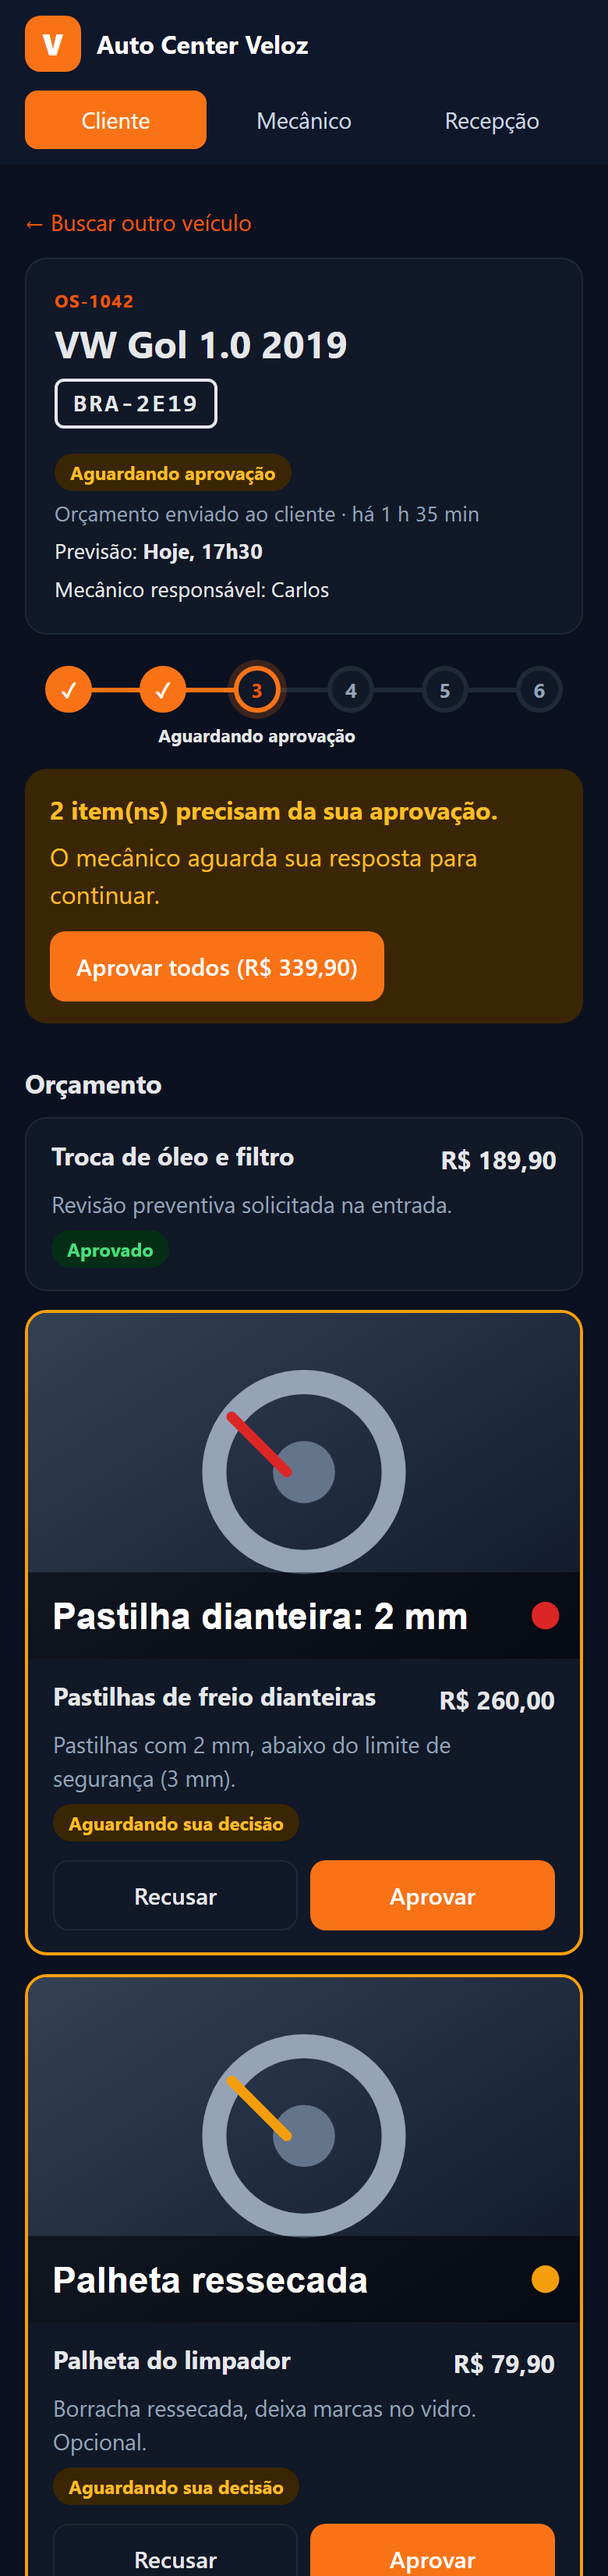
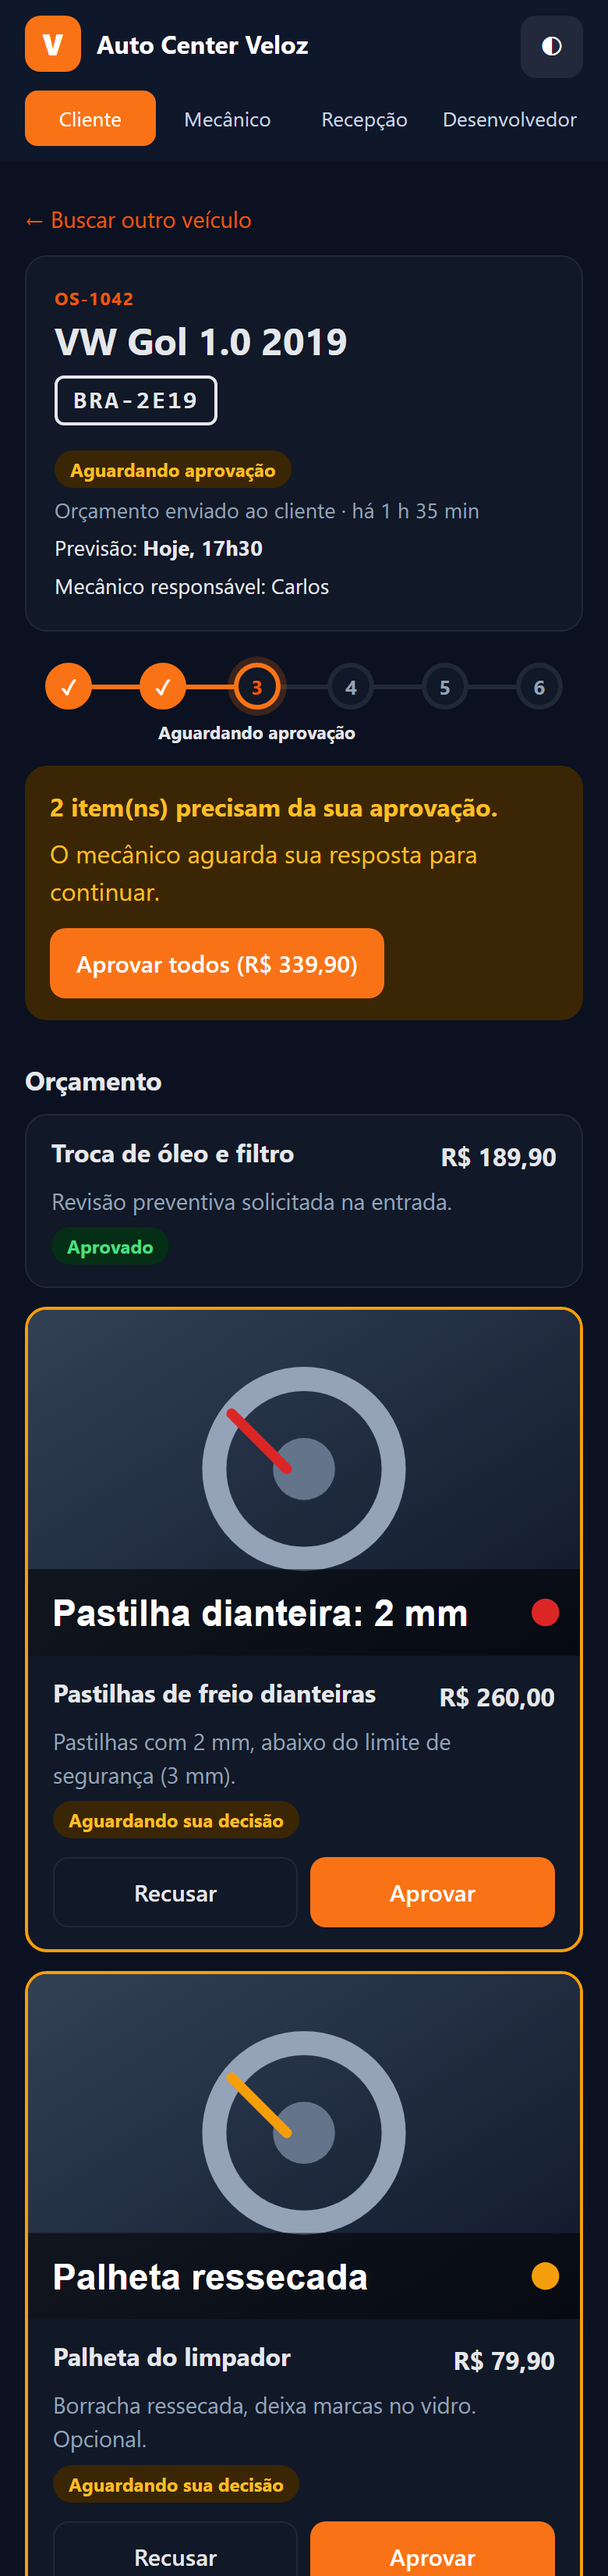
docs: README e capturas com as novas funcionalidades

diff --git a/README.md b/README.md
@@ -52,6 +52,7 @@ Avaliei as três opções da atividade:
 | Cliente precisa instalar algo? | Sim, e ninguém instala app de oficina para usar 2 vezes por ano | Não | **Não: abre por um link no WhatsApp** |
 | Resolve status e aprovação? | Sim | Não, só apresenta a empresa | **Sim** |
 | Mecânico usa no celular, com câmera? | Sim | Não | **Sim (`<input capture>`)** |
+| Fica na tela inicial do celular? | Sim | Não | **Sim (PWA instalável e offline)** |
 | Recepção tem painel de gestão? | Exigiria outro sistema | Não | **Sim, no mesmo produto** |
 | Custo e prazo para a oficina | Alto (lojas, duas plataformas) | Baixo | **Baixo (hospedagem estática)** |
 
@@ -71,22 +72,36 @@ Avaliei as três opções da atividade:
 O **Veloz Acompanha** tem três perfis, todos no mesmo web app:
 
 ### Cliente
-- Encontra o carro pela **placa ou nº da OS**, ou abre direto pelo **link recebido no WhatsApp**.
+- Encontra o carro pela **placa ou nº da OS**, pelo **QR code do comprovante** ou pelo **link recebido no WhatsApp**.
 - Vê a **etapa atual**, a previsão de entrega e o mecânico responsável.
-- Vê a **foto e a explicação** de cada peça com defeito e **aprova ou recusa item a item**.
+- Vê a **foto e a explicação** de cada peça com defeito e **aprova ou recusa item a item** (ou "Aprovar todos").
 - Quando responde todos os itens, o serviço é **liberado automaticamente** para o mecânico, sem passar pela recepção.
+- Pode ativar **notificações do navegador** para ser avisado a cada mudança de etapa.
+- Tem um **relatório digital** da OS, com itens, evidências fotográficas e histórico, que pode **salvar em PDF**. É o mesmo diferencial das concessionárias, sem o preço delas.
+- Na entrega, **avalia o atendimento** com estrelas. Nota 4 ou 5 vira convite para avaliar no Google; nota baixa avisa o gerente para resolver antes de virar avaliação negativa pública.
+- Botão **"Falar com a oficina"** abre o WhatsApp com a OS já identificada.
 
 ### Mecânico
 - Vê só as **suas OS**, com o elevador de cada uma.
 - **Avança a etapa** com um toque, e o cliente é atualizado na hora.
 - Em "Encontrei um problema", **fotografa a peça pelo celular**, informa valor e explicação, e envia para aprovação.
 - O botão de avançar fica travado enquanto há itens aguardando o cliente, o que evita trabalho não autorizado.
+- Recebe aviso quando o cliente responde, sem a recepção precisar interromper.
 
 ### Recepção e gestão (Eduardo e Henrique)
-- **Indicadores:** carros na oficina, aguardando aprovação, tempo médio de espera e prontos para retirada.
+- **Indicadores:** carros na oficina, aguardando aprovação, tempo médio de espera, prontos para retirada e **nota média dos clientes**.
 - **Mapa dos 5 elevadores:** livre ou ocupado, com alerta quando o carro está parado.
-- **Lista de OS** ordenada por urgência, com **copiar link** e **enviar pelo WhatsApp** (mensagem pronta).
-- **Nova OS:** cadastro na entrada do veículo, que já gera o link do cliente.
+- **Lista de OS** ordenada por urgência, com **busca** (placa, cliente, OS ou mecânico) e **filtro por etapa**.
+- Por OS: **comprovante com QR code**, **copiar link** e **enviar pelo WhatsApp** (mensagem pronta).
+- **Nova OS:** cadastro na entrada do veículo, que já abre o comprovante com QR, substituindo o orçamento em papel.
+- **Últimas avaliações** dos clientes.
+
+### Desenvolvedor
+- Aba **Desenvolvedor**, com o criador do app: foto, bio, links (GitHub, LinkedIn e Instagram) e repositórios, carregados **ao vivo da API pública do GitHub** (com dados de reserva se a API estiver fora).
+
+### App instalável (PWA)
+- Pode ser **instalado na tela inicial** do celular ou do computador, com ícone próprio, e **abre offline** (service worker).
+- **Tema claro e escuro**: segue o sistema e pode ser alternado no botão ◐.
 
 ### Fluxo principal
 
@@ -108,19 +123,27 @@ sequenceDiagram
 
 O protótipo é **navegável e funcional**: acesse a [demo online](https://mmarcatoricardo.github.io/autocenter-veloz/).
 
-> Dica: abra a tela do **mecânico** e a do **cliente** em duas abas. Quando o cliente aprova, a outra aba atualiza sozinha.
+> Dica: abra a tela do **mecânico** e a do **cliente** em duas abas. Quando o cliente aprova, a outra aba atualiza sozinha e mostra o aviso.
 
-| Cliente (celular): status e aprovação | Cliente (celular): busca |
-|---|---|
-| ![Tela do cliente com status e aprovação de itens](docs/screenshots/cliente-mobile.png) | ![Tela de busca por placa](docs/screenshots/cliente-busca.png) |
+| Cliente: status e aprovação | Cliente: avaliação na entrega | Criador do app |
+|---|---|---|
+| ![Tela do cliente com status e aprovação de itens](docs/screenshots/cliente-mobile.png) | ![Tela do cliente com avaliação por estrelas](docs/screenshots/cliente-avaliacao.png) | ![Aba do desenvolvedor no celular](docs/screenshots/desenvolvedor-mobile.png) |
 
-**Recepção: painel do pátio**
+**Recepção: painel do pátio, com busca, filtros e avaliações**
 
 ![Painel da recepção com indicadores, elevadores e ordens de serviço](docs/screenshots/recepcao.png)
+
+**Relatório digital da OS (salvável em PDF)**
+
+![Relatório digital com itens, evidências fotográficas e histórico](docs/screenshots/relatorio.png)
 
 **Mecânico: minhas OS**
 
 ![Painel do mecânico com etapas e itens do orçamento](docs/screenshots/mecanico.png)
+
+**Desenvolvedor**
+
+![Aba do desenvolvedor com perfil e repositórios do GitHub](docs/screenshots/desenvolvedor.png)
 
 **Página inicial**
 
@@ -128,17 +151,21 @@ O protótipo é **navegável e funcional**: acesse a [demo online](https://mmarc
 
 ## 5. Arquitetura
 
-Protótipo **100% front-end e estático**, sem build e sem dependências externas, pronto para o GitHub Pages.
+Protótipo **100% front-end e estático**, sem build, pronto para o GitHub Pages. A única biblioteca externa é o gerador de QR code ([qrcodejs](https://github.com/davidshimjs/qrcodejs), via cdnjs); sem ela, o app continua funcionando e mostra só o link.
 
 ```
 autocenter-veloz/
-├── index.html            # Estrutura da página (topo, área do app, rodapé)
+├── index.html             # Estrutura da página (topo, área do app, rodapé)
+├── manifest.webmanifest   # PWA: nome, ícones, cores e atalhos
+├── sw.js                  # Service worker: cache do app para abrir offline
+├── assets/                # Ícones do app (SVG e PNG, incluindo maskable)
 ├── css/
-│   └── styles.css        # Design system: tokens de cor, componentes, responsivo, tema escuro
+│   └── styles.css         # Design system: tokens de cor, componentes, responsivo, temas, impressão
 ├── js/
-│   ├── data.js           # Etapas do serviço, mecânicos, elevadores e dados de exemplo
-│   └── app.js            # SPA: roteamento por hash, telas, ações e persistência
-├── docs/screenshots/     # Capturas usadas neste README
+│   ├── data.js            # Etapas do serviço, mecânicos, elevadores, oficina e dados de exemplo
+│   ├── dev.js             # Aba Desenvolvedor: perfil e repositórios via API pública do GitHub
+│   └── app.js             # SPA: rotas, telas, ações, notificações e persistência
+├── docs/screenshots/      # Capturas usadas neste README
 ├── .gitignore
 ├── LICENSE
 └── README.md
@@ -147,8 +174,11 @@ autocenter-veloz/
 | Camada | Decisão |
 |---|---|
 | Interface | HTML5 semântico + CSS3 (Grid, Flexbox, custom properties), sem framework |
-| Lógica | JavaScript puro (ES5+), em uma *single page application* com rotas `#/cliente`, `#/cliente/OS-1042`, `#/mecanico` e `#/recepcao` |
-| Estado | Objeto `orders` persistido no `localStorage`. O evento `storage` sincroniza abas abertas em tempo real |
+| Lógica | JavaScript puro (ES5+), em uma *single page application* com rotas `#/cliente`, `#/cliente/OS-1042`, `#/relatorio/OS-1042`, `#/mecanico`, `#/recepcao` e `#/desenvolvedor` |
+| Estado | Objeto `orders` persistido no `localStorage`. O evento `storage` sincroniza abas abertas em tempo real e gera os avisos (toast e Notification API) |
+| PWA | `manifest.webmanifest` + service worker com estratégia *network-first*: sempre a versão mais nova online e o cache quando offline |
+| Relatório | Página própria com CSS `@media print`, então o "Salvar PDF" do navegador gera um documento limpo |
+| Perfil do autor | `fetch` na API pública do GitHub (sem token), com dados de reserva embutidos |
 | Fotos | Capturadas pela câmera (`capture="environment"`), redimensionadas no `<canvas>` para 640 px em JPEG antes de salvar |
 | Segurança | Todo texto digitado é escapado antes de ir para o HTML (proteção contra XSS) |
 | Hospedagem | GitHub Pages (estático, HTTPS, gratuito) |
@@ -187,12 +217,14 @@ python -m http.server 8080
 
 **Roteiro de teste (2 minutos):**
 
-1. Em **Recepção**, veja os 2 carros parados aguardando aprovação.
-2. Abra **Cliente** e escolha `BRA-2E19`. Veja as fotos e aprove as pastilhas de freio e recuse a palheta.
-3. Veja que a OS passou sozinha para **Em serviço**.
+1. Em **Recepção**, veja os 2 carros parados aguardando aprovação e a nota média dos clientes.
+2. Abra **Cliente** e escolha `BRA-2E19`. Veja as fotos, aprove as pastilhas de freio e recuse a palheta.
+3. Veja que a OS passou sozinha para **Em serviço**. Abra o **Relatório digital** e use "Salvar PDF".
 4. Em **Mecânico** (Carlos), avance as etapas até **Pronto para retirada**.
-5. Volte à **Recepção** e clique em **Entregar**. Use **+ Nova OS** para cadastrar um carro novo.
-6. Para recomeçar, use **Restaurar dados de exemplo** no rodapé.
+5. Volte à **Recepção**, busque `BRA` e clique em **Entregar**. Na tela do cliente, avalie com estrelas.
+6. Use **+ Nova OS** para cadastrar um carro novo e veja o comprovante com QR code.
+7. Abra a aba **Desenvolvedor** para conhecer o criador do app.
+8. Para recomeçar, use **Restaurar dados de exemplo** no rodapé.
 
 ## 7. Segurança e credenciais
 
@@ -205,7 +237,8 @@ python -m http.server 8080
 
 - Back-end com autenticação da equipe e link do cliente com token de acesso único.
 - Notificação automática pelo WhatsApp Business a cada mudança de etapa.
-- Pagamento por Pix na retirada e avaliação pós-serviço (para melhorar a reputação no Google).
+- Pagamento por Pix na retirada.
+- Push notifications reais (Web Push) mesmo com o app fechado.
 - Relatórios para o Henrique: tempo médio por etapa, taxa de aprovação e faturamento por mecânico.
 
 ## 9. Licença
